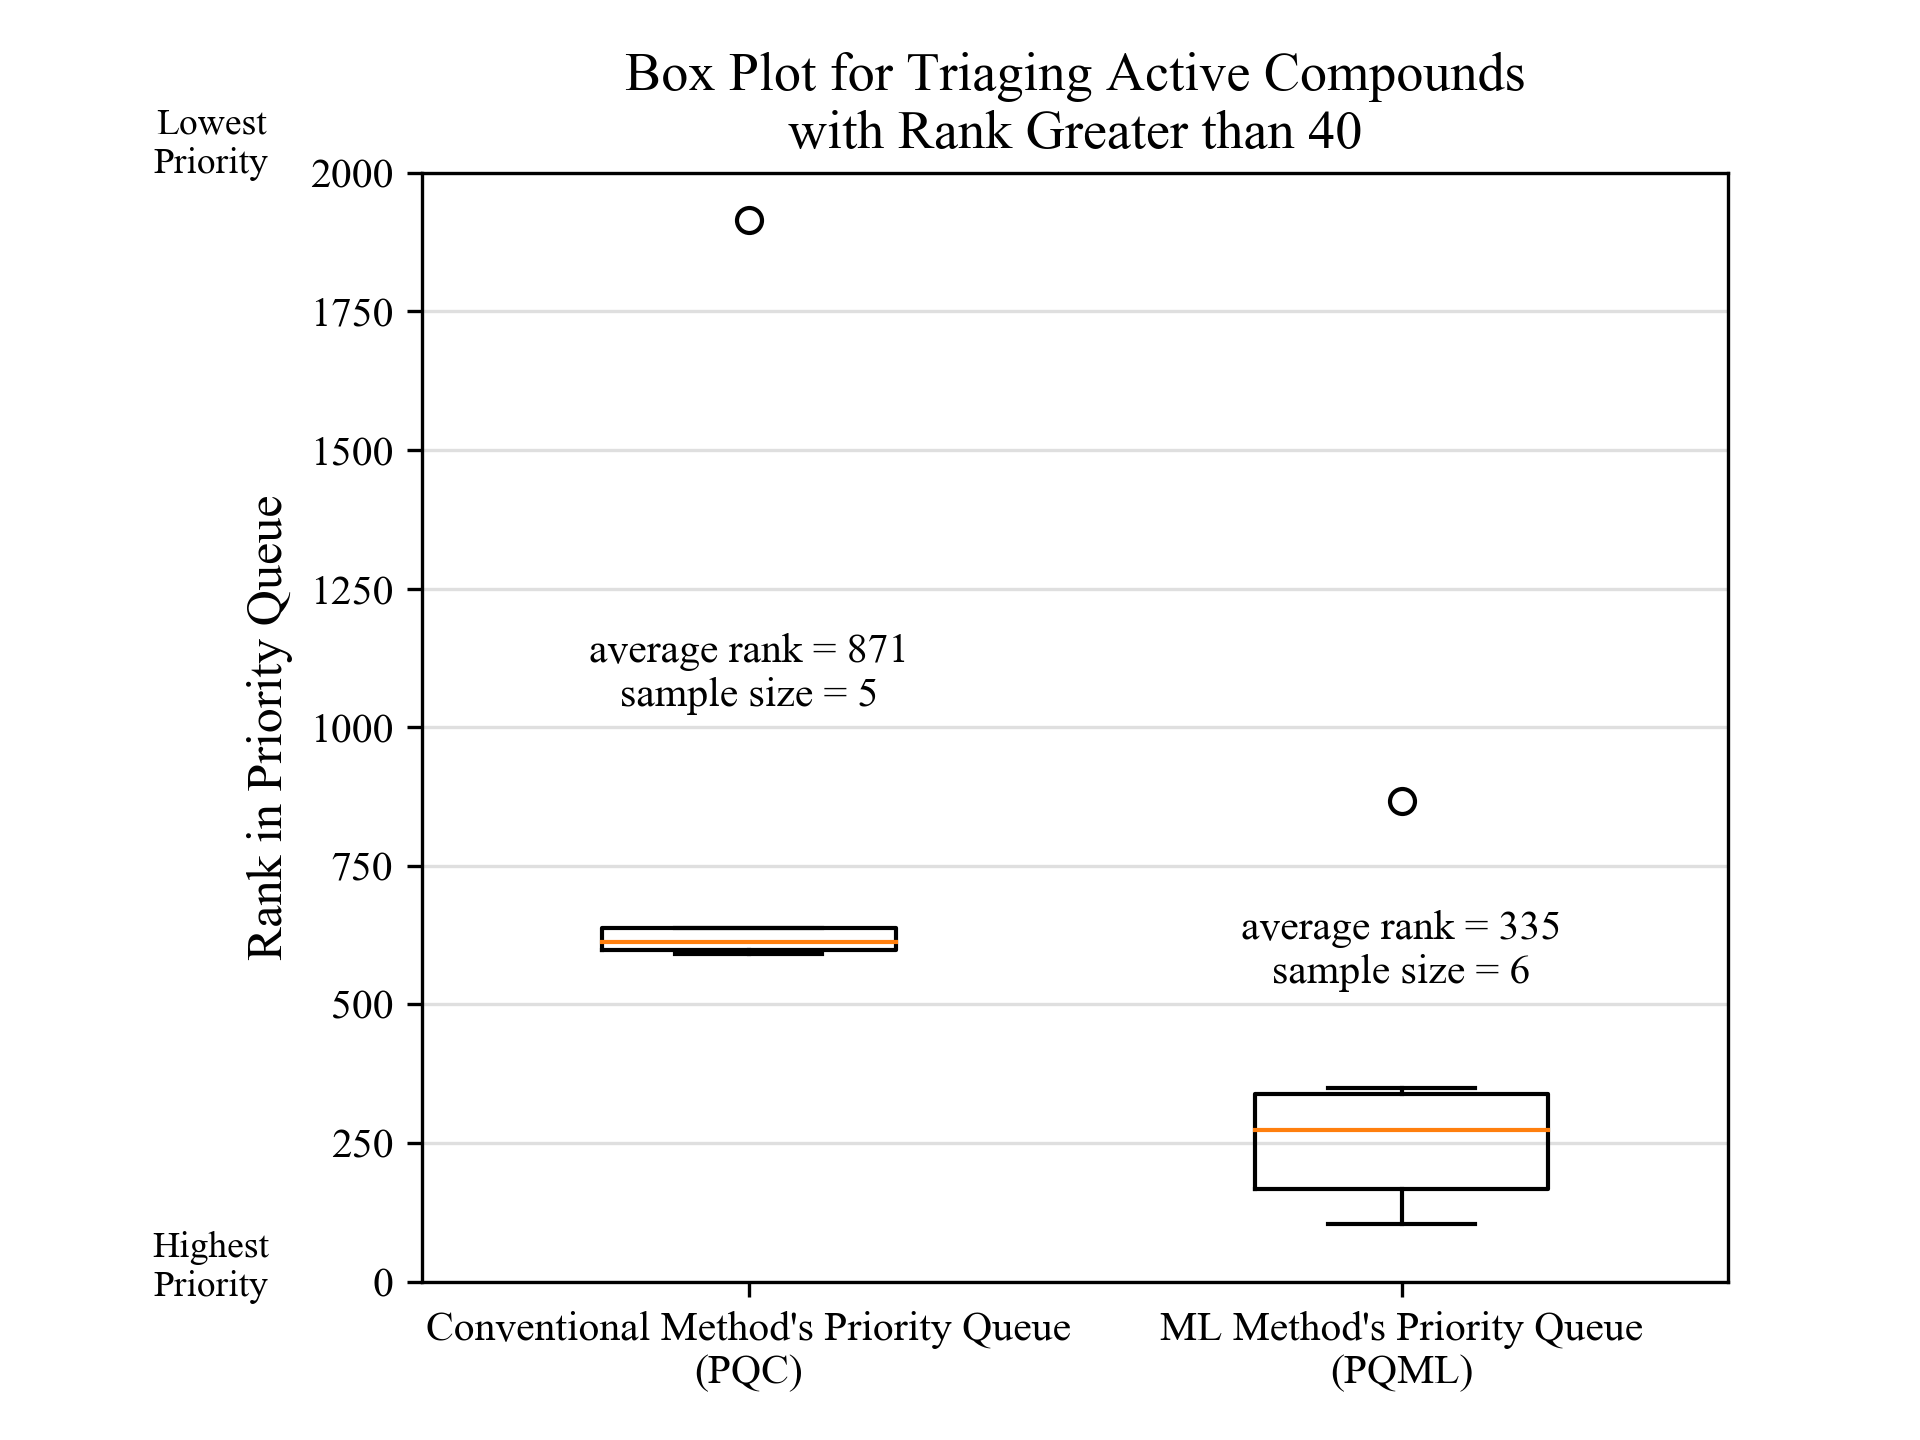
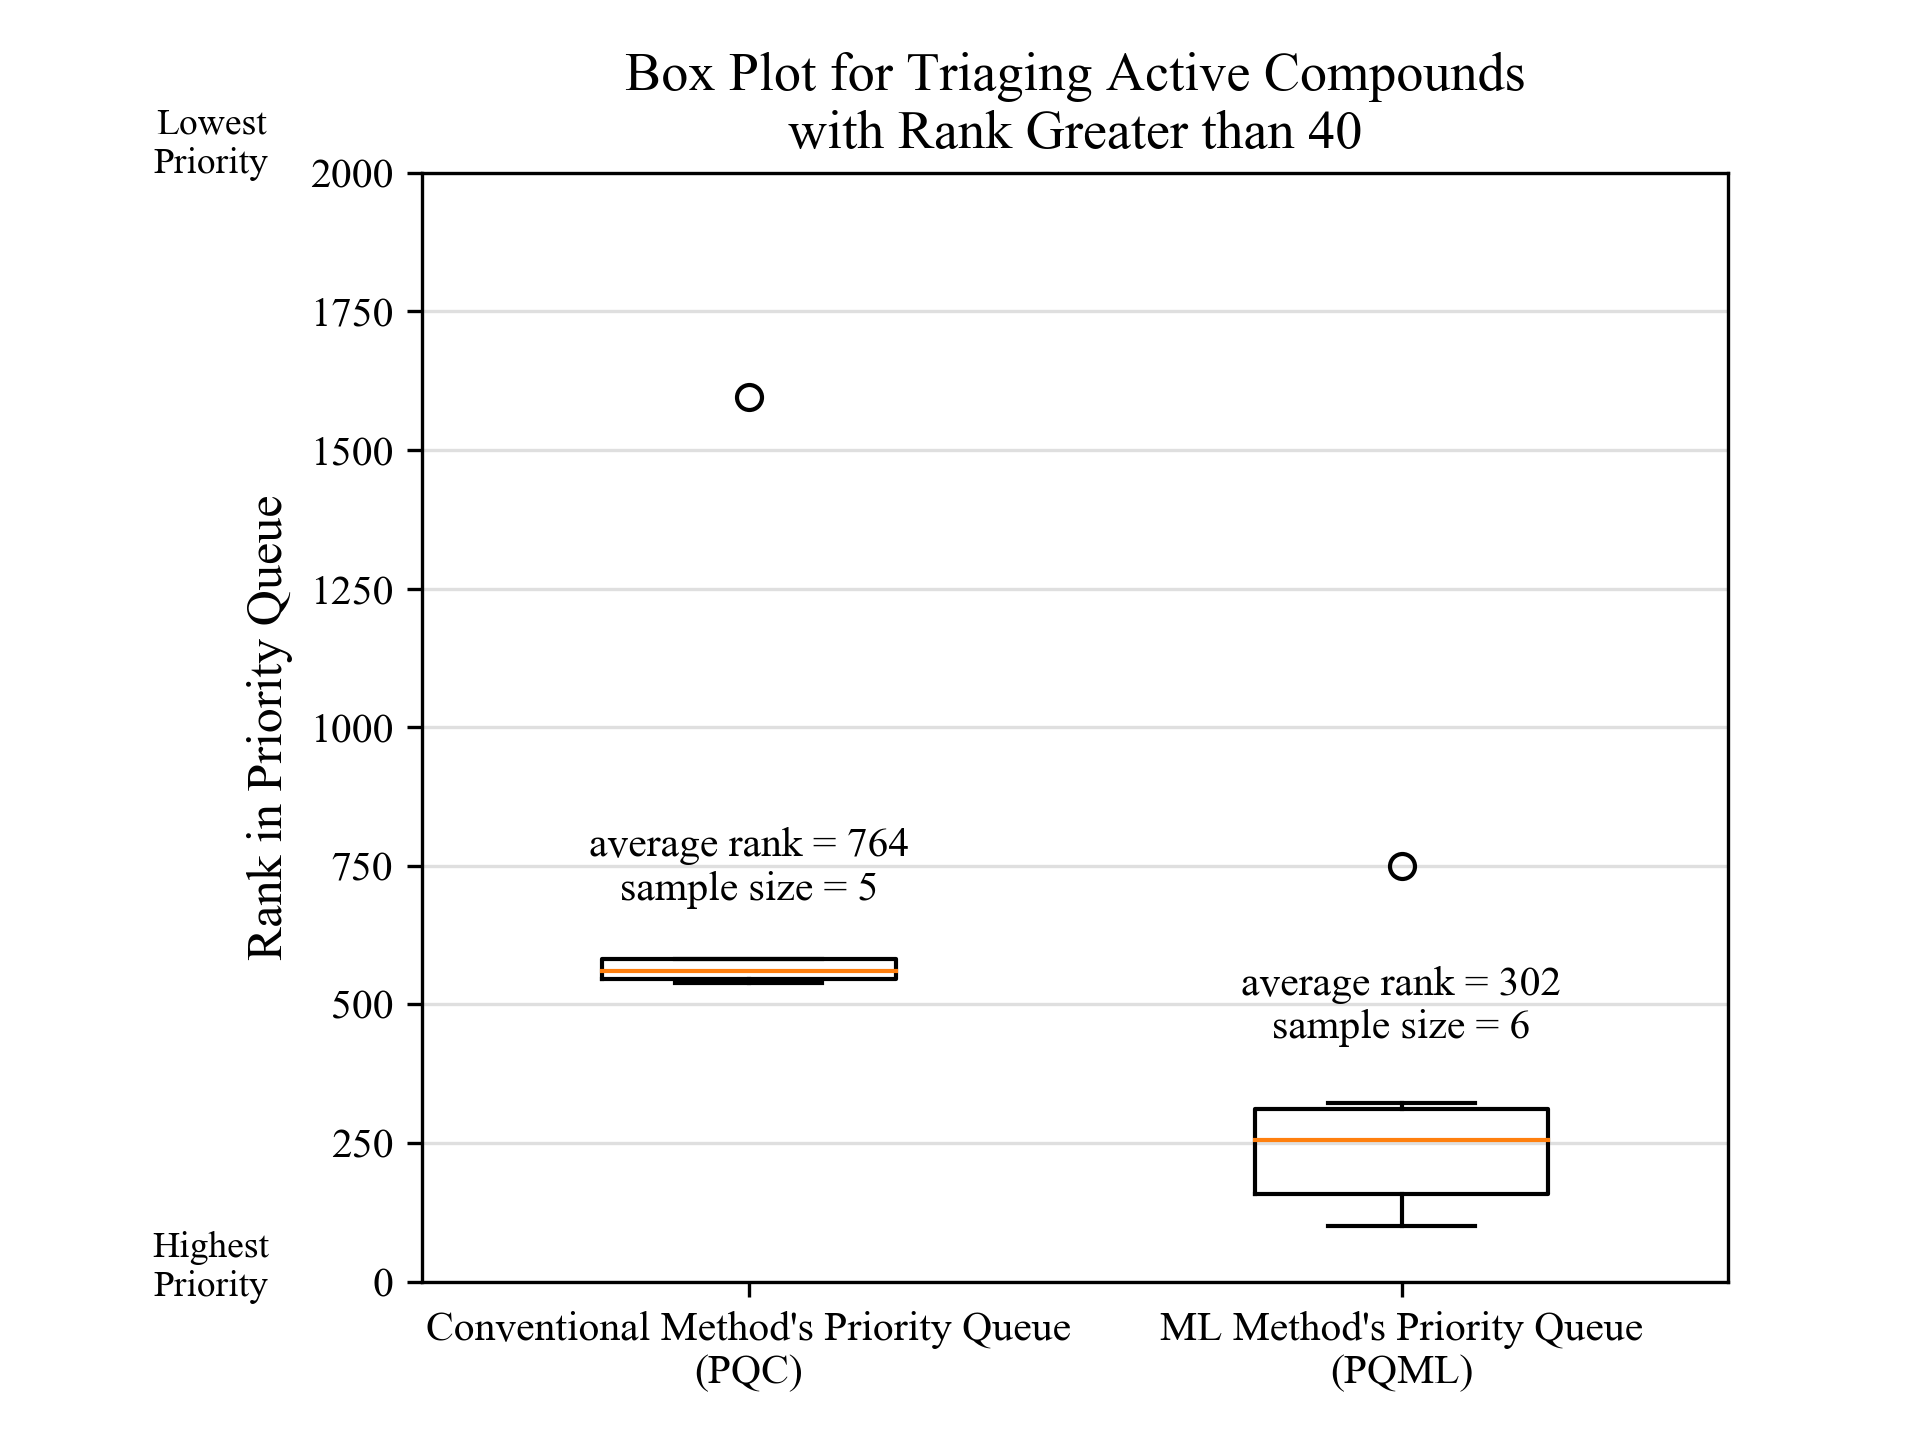
updates

diff --git a/figure_generator.py b/figure_generator.py
@@ -364,59 +364,57 @@ def plateSeparatedPerformance():
     plt.savefig("matplotlib_figures/separatedPlatesPerformance.png", dpi=300)
 
 def enrichmentPlot(labelScheme):
-    """
-    for generating the various enrichment plots for the prospective drug-activity validation studies
-    """ 
     fig, ax = plt.subplots()
-    x1 = range(0, 1921)
+    x1 = range(0, 1600)
+    #strict labeling
     if labelScheme == "Strict Labeling Successful Compounds":
         plt.title("Enrichment Plot for Triaging Active Compounds", fontname="Times New Roman", fontsize=14)
-        historic_hits = [2,3,4,5,7,8,9,15,18,34,36,38,1915,613,598,591,638]
-        ML_hits = [1,10,11,14,15,18,19,22,27,39,40,302,103,246,140,867,350]
+        historic_hits = pickle.load(open("pickles/historic_hits_conventional_standard.pkl", "rb"))
+        ML_hits = pickle.load(open("pickles/ML_hits_conventional_standard.pkl", "rb"))
         historic_fraction = float(1/len(historic_hits))
         ML_fraction = float(1/len(ML_hits))
-
     if labelScheme == "Strict Labeling Missed Successful Compounds":
         plt.title("Enrichment Plot for Triaging Active Compounds\nwith Rank Greater than 40", fontname="Times New Roman", fontsize=14)
-        historic_hits = [1915,613,591,598,638]
-        ML_hits = [302,103,246,140,867,350]
+        historic_hits = pickle.load(open("pickles/historic_hits_conventional_standard.pkl", "rb"))
+        historic_hits = [x for x in historic_hits if x > 40]
+        ML_hits = pickle.load(open("pickles/ML_hits_conventional_standard.pkl", "rb"))
+        ML_hits = [x for x in ML_hits if x > 40]
         historic_fraction = float(1/len(historic_hits))
         ML_fraction = float(1/len(ML_hits))
-
     if labelScheme == "Strict Labeling Successful Compounds - ML":
         plt.title("Enrichment Plot for Triaging Active Compounds (by ML Standard)", fontname="Times New Roman", fontsize=14)
-        historic_hits = [2,3,4,8,34,36,38,1830,1391,598]
-        ML_hits = [1,4,8,10,11,22,302,140,867,350]
+        historic_hits = pickle.load(open("pickles/historic_hits_ML_standard.pkl", "rb"))
+        ML_hits = pickle.load(open("pickles/ML_hits_ML_standard.pkl", "rb"))
         historic_fraction = float(1/len(historic_hits))
         ML_fraction = float(1/len(ML_hits))
-
     if labelScheme == "Strict Labeling Missed Successful Compounds - ML":
         plt.title("Enrichment Plot for Triaging Active Compounds\nwith Rank Greater than 40 (by ML Standard)", fontname="Times New Roman", fontsize=14)
-        historic_hits = [1830,1391,598]
-        ML_hits = [302,140,867,350]
+        historic_hits = pickle.load(open("pickles/historic_hits_ML_standard.pkl", "rb"))
+        historic_hits = [x for x in historic_hits if x > 40]
+        ML_hits = pickle.load(open("pickles/ML_hits_ML_standard.pkl", "rb"))
+        ML_hits = [x for x in ML_hits if x > 40]
         historic_fraction = float(1/len(historic_hits))
         ML_fraction = float(1/len(ML_hits))
-    
     cumulative_summation = 0
     historic_plot = []
-    for i in range(0, 1921):
+    for i in range(0, 1600):
         if i in historic_hits:
             cumulative_summation += historic_fraction
         historic_plot.append(cumulative_summation)
     cumulative_summation = 0
     ML_plot = []
-    for j in range(0, 1921):
+    for j in range(0, 1600):
         if j in ML_hits:
             cumulative_summation += ML_fraction
-        ML_plot.append(cumulative_summation)  
-    x1 = np.arange(0, 1, float(1/1921))
+        ML_plot.append(cumulative_summation)
+    x1 = np.arange(0, 1, float(1/1600))
     print(len(x1), len(historic_plot))
     hist_AUC = np.trapz(historic_plot, x1)
     print("HIST AUC: ", hist_AUC)
     ML_AUC = np.trapz(ML_plot, x1)
     print("ML AUC: ", ML_AUC)
-    ax.plot(x1, ML_plot, color = "red", label="ML Method, AUC = " + str(ML_AUC)[0:4])
-    ax.plot(x1, historic_plot, color = "blue", label="Conventional Method, AUC = " + str(hist_AUC)[0:4])
+    ax.plot(x1, ML_plot, color = "red", label="ML Method, AUC = " + str(round(ML_AUC, 2)))
+    ax.plot(x1, historic_plot, color = "blue", label="Conventional Method, AUC = " + str(round(hist_AUC, 2)))
     ax.set_xlabel("Ranked Queue Percentage", fontname="Times New Roman", fontsize=12)
     ax.set_ylabel("Percentage of Successful Compounds Discovered", fontname="Times New Roman", fontsize=12)
     plt.legend(loc='lower right', prop={"family":"Times New Roman", "size":10})
@@ -427,46 +425,44 @@ def enrichmentPlot(labelScheme):
     ax.set_xticklabels(['{:,.0%}'.format(x) for x in vals], fontname="Times New Roman", fontsize=12)
     plt.savefig("matplotlib_figures/enrichmentPlot_{}.png".format(labelScheme), dpi=300)
 
+
 def enrichmentBoxPlot(labelScheme):
-    """
-    for generating the corresponding box plots that go with the enrichment curves
-    """
     fig, ax = plt.subplots()
-    x1 = range(0, 1921)
+    x1 = range(0, 1600)
     if labelScheme == "Strict Labeling Successful Compounds":
         plt.title("Box Plot for Triaging Active Compounds", fontname="Times New Roman", fontsize=13)
-        historic_hits = [2,3,4,5,7,8,9,15,18,34,36,38,1915,613,598,591,638]
-        ML_hits = [1,10,11,14,15,18,19,22,27,39,40,302,103,246,140,867,350]
-        hist_text_height =  1000
-        ml_text_height = 500 
-        x_coord = 1
+        historic_hits = pickle.load(open("pickles/historic_hits_conventional_standard.pkl", "rb"))
+        ML_hits = pickle.load(open("pickles/ML_hits_conventional_standard.pkl", "rb"))
+        hist_text_height = 650
+        ml_text_height = 400
     if labelScheme == "Strict Labeling Missed Successful Compounds":
         plt.title("Box Plot for Triaging Active Compounds\nwith Rank Greater than 40", fontname="Times New Roman", fontsize=13)
-        historic_hits = [1915,638,613,598,591]
-        ML_hits = [302,103,246,140,867,350]
-        hist_text_height =  1000
-        ml_text_height = 500 
-        x_coord = 1
+        historic_hits = pickle.load(open("pickles/historic_hits_conventional_standard.pkl", "rb"))
+        historic_hits = [x for x in historic_hits if x > 40]
+        ML_hits = pickle.load(open("pickles/ML_hits_conventional_standard.pkl", "rb"))
+        ML_hits = [x for x in ML_hits if x > 40]
+        hist_text_height =  650
+        ml_text_height = 400 
     if labelScheme == "Strict Labeling Successful Compounds - ML":
         plt.title("Box Plot for Triaging Active Compounds (by ML Standard)", fontname="Times New Roman", fontsize=13)
-        historic_hits = [2,3,4,8,34,36,38,1830,1391,598]
-        ML_hits = [1,4,8,10,11,22,302,140,867,350]
-        hist_text_height =  1000
-        ml_text_height = 500 
-        x_coord = 1
+        historic_hits = pickle.load(open("pickles/historic_hits_ML_standard.pkl", "rb"))
+        ML_hits = pickle.load(open("pickles/ML_hits_ML_standard.pkl", "rb"))
+        hist_text_height =  550
+        ml_text_height = 320 
     if labelScheme == "Strict Labeling Missed Successful Compounds - ML":
         plt.title("Box Plot for Triaging Active Compounds\nwith Rank Greater than 40 (by ML Standard)",  fontname="Times New Roman", fontsize=13)
-        historic_hits = [1830,1391,598]
-        ML_hits = [302,140,867,350]
-        hist_text_height =  1273
+        historic_hits = pickle.load(open("pickles/historic_hits_ML_standard.pkl", "rb"))
+        historic_hits = [x for x in historic_hits if x > 40]
+        ML_hits = pickle.load(open("pickles/ML_hits_ML_standard.pkl", "rb"))
+        ML_hits = [x for x in ML_hits if x > 40]
+        hist_text_height =  1520
         ml_text_height = 500 
-        x_coord = 1.51
     hist_avg, hist_sample_size, hist_Q3 = np.mean(historic_hits), len(historic_hits), np.quantile(historic_hits, .75)
     ml_avg, ml_sample_size, ml_Q3 =  np.mean(ML_hits), len(ML_hits), np.quantile(ML_hits, .75)
     ax.boxplot([historic_hits, ML_hits],  widths=(.45, .45))
     ##data labels
     ax.annotate("average rank = {:.0f}\nsample size = {}".format(hist_avg, hist_sample_size),
-        xy=(x_coord, hist_text_height), xytext=(0, 3),  # 3 points vertical offset
+        xy=(1, hist_text_height), xytext=(0, 3),  # 3 points vertical offset
         textcoords="offset points",
         ha='center', va='bottom', fontname="Times New Roman", fontsize=10)
     ax.annotate("average rank = {:.0f}\nsample size = {}".format(ml_avg, ml_sample_size),
@@ -486,6 +482,7 @@ def enrichmentBoxPlot(labelScheme):
     plt.gcf().subplots_adjust(left=.22) #default: left = 0.125, right = 0.9, bottom = 0.1, top = 0.9
     plt.savefig("matplotlib_figures/box_plot_enrichment_{}.png".format(labelScheme), dpi=300)
 
+
 def ablationPlot():
     """
     for the Supplemental figure analyzing the tuaopathy model performance on progressively ablated images over the test set
@@ -497,6 +494,10 @@ def ablationPlot():
     stds = pickle.load(open("pickles/ablation_tau_stds.pkl", "rb"))
     plt.xlabel("Intensity Percentile of YFP-tau and DAPI Ablated", fontname="Times New Roman", fontsize=12)    
     x = [val * 100 for val in x]
+    x_vals = ax.get_xticks()
+    x_vals = np.insert(x_vals, 0, 0)
+    print(x_vals)
+    ax.set_xticklabels(['{:,.0%}'.format(x_val) for x_val in x_vals], fontname="Times New Roman")
     ax.axhline(.53, linestyle="--", color='black', lw=.80, alpha=0.8)
     ax.errorbar(x, averages, yerr=stds, capsize=1.5, elinewidth=.2, ecolor="black", label="ML Model")
     ax.set_ylabel("Average Pearson Correlation Over Test Set", fontname="Times New Roman", fontsize=12)
@@ -552,11 +553,13 @@ def overlapPlot():
     ax.set_xlabel("Threshold of YFP-tau", fontname="Times New Roman", fontsize=12)
     ax.set_ylabel("Overlap of YFP-tau and AT8-pTau", fontname="Times New Roman", fontsize=12)
     ax.plot(x,y, '+-')
+    ax.set_ylim((0,1))
     y_vals = ax.get_yticks()
     ax.set_yticklabels(['{:,.0%}'.format(y_val) for y_val in y_vals], fontname="Times New Roman")
     for tick in ax.get_xticklabels():
         tick.set_fontname("Times New Roman")
     plt.xticks(np.arange(min(x), max(x) + .25, .25))
+
     plt.savefig("matplotlib_figures/overlapPlot.png", dpi=300)
 
 ## method calls 
